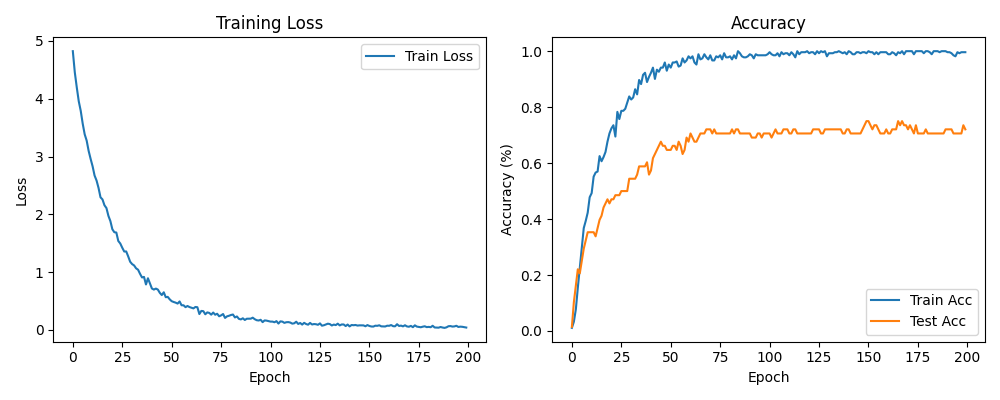
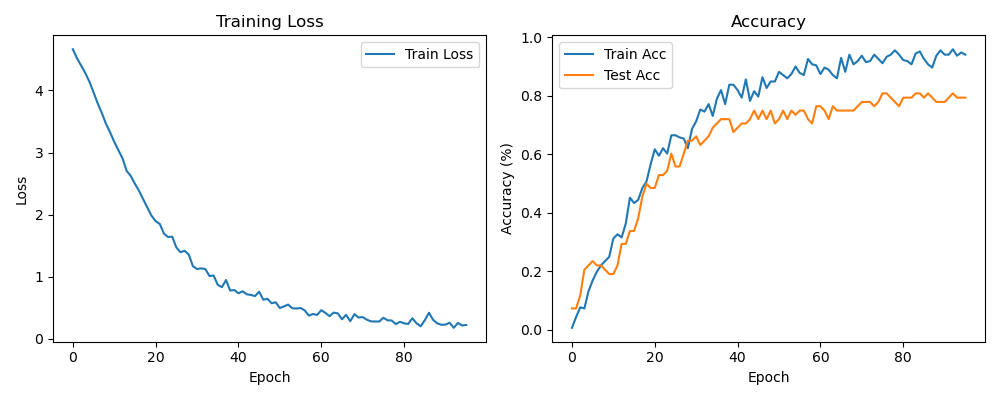
80% accuracy on test set

diff --git a/main.py b/main.py
@@ -2,10 +2,22 @@ import torch
 from torch import nn, optim
 from torch.utils.data import DataLoader
 import matplotlib.pyplot as plt
+import random
+import numpy as np
 from data_utils import load_data
 from model import FaceClassifier
 from train import train
 from test import evaluate
+from sklearn.metrics import confusion_matrix
+import seaborn as sns
+
+seed = 0
+random.seed(seed)
+np.random.seed(seed)
+torch.manual_seed(seed)
+torch.cuda.manual_seed_all(seed)
+torch.backends.cudnn.deterministic = True
+torch.backends.cudnn.benchmark = False
 
 def main():
     # Config
@@ -33,6 +45,11 @@ def main():
     train_losses, train_accuracies = [], []
     test_accuracies = []
 
+    patience = 20
+    patience_counter = 0
+    best_acc = 0.0
+    best_model_state = None
+
     for epoch in range(num_epochs):
         train_loss, train_acc = train(model, train_loader, optimizer, criterion, device)
         test_loss, test_acc = evaluate(model, test_loader, criterion, device)
@@ -41,11 +58,28 @@ def main():
         train_accuracies.append(train_acc)
         test_accuracies.append(test_acc)
 
-        print(f"Epoch [{epoch+1}/{num_epochs}] Train Loss: {train_loss:.4f} | Train Acc: {train_acc*100:.2f}% | Test Acc: {test_acc*100:.2f}%")
+        print(f"Epoch [{epoch+1}/{num_epochs}] "
+              f"Train Loss: {train_loss:.4f} | Train Acc: {train_acc*100:.2f}% | "
+              f"Test Acc: {test_acc*100:.2f}%")
+
+        # Early stopping logic
+        if test_acc > best_acc:
+            best_acc = test_acc
+            best_model_state = model.state_dict()
+            patience_counter = 0
+        else:
+            patience_counter += 1
+            if patience_counter >= patience:
+                print(f"Early stopping at epoch {epoch+1}")
+                break
+
+    # Ripristino modello migliore
+    if best_model_state is not None:
+        model.load_state_dict(best_model_state)
 
     # Final test accuracy
-    final_test_acc = test_accuracies[-1]
-    print(f"Final Test Accuracy: {final_test_acc * 100:.2f}%")
+    final_test_acc = best_acc
+    print(f"Final Test Accuracy (best): {final_test_acc * 100:.2f}%")
 
     # Plot
     plt.figure(figsize=(10, 4))

diff --git a/model.py b/model.py
@@ -6,16 +6,21 @@ class FaceClassifier(nn.Module):
     def __init__(self, input_dim, num_classes):
         super(FaceClassifier, self).__init__()
         self.model = nn.Sequential(
-            nn.Linear(input_dim, 128),
+            nn.Linear(input_dim, 256),  # Aumentato la capacità
+            nn.ReLU(),
+            nn.BatchNorm1d(256),
+            nn.Dropout(0.6),  # Aumentato dropout
+            
+            nn.Linear(256, 128),
             nn.ReLU(),
             nn.BatchNorm1d(128),
-            nn.Dropout(0.3),
+            nn.Dropout(0.5),
+            
             nn.Linear(128, 64),
             nn.ReLU(),
-            nn.BatchNorm1d(64),
-            nn.Dropout(0.3),
+            
             nn.Linear(64, num_classes)
         )
-    
+
     def forward(self, x):
         return self.model(x)

diff --git a/train.py b/train.py
@@ -1,5 +1,4 @@
 import torch
-import torch.nn as nn
 from tqdm import tqdm
 
 def train(model, dataloader, optimizer, criterion, device):
@@ -8,7 +7,7 @@ def train(model, dataloader, optimizer, criterion, device):
     correct = 0
     total = 0
 
-    for X, y in tqdm(dataloader):
+    for X, y in tqdm(dataloader, leave=False):
         X, y = X.to(device), y.to(device)
         optimizer.zero_grad()
         outputs = model(X)

diff --git a/test.py b/test.py
@@ -11,7 +11,6 @@ def evaluate(model, dataloader, criterion, device):
             X, y = X.to(device), y.to(device)
             outputs = model(X)
             loss = criterion(outputs, y)
-
             total_loss += loss.item()
             _, preds = torch.max(outputs, 1)
             correct += (preds == y).sum().item()
